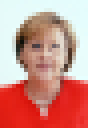
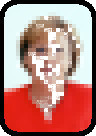
Text scroll and start screen done

diff --git a/main.html b/main.html
@@ -2,31 +2,35 @@
 <html>
 <style>
     /*Use of all images for comercial use covered under Creative Commons*/
-    body {
-        background-color: whitesmoke;
+    
+    * {
+        font-family: "Courier New"
     }
     
-    p {
-        font-family: "Lucida Sans Unicode"
+    body {
+        background-color: whitesmoke;
     }
     
     input {
         height: 40px;
         font-size: 24px;
-        font-family: "Lucida Sans Unicode"
+        border: solid 1px #dcdcdc;
+        padding: 0px;
+        width: 200px;
     }
     
     button {
         width: 120px;
         height: 40px;
         font-size: 24px;
-        font-family: "Lucida Sans Unicode"
+        padding: 0px;
     }
     
     select {
         height: 40px;
         font-size: 24px;
-        font-family: "Lucida Sans Unicode"
+        border: solid 1px #dcdcdc;
+        padding: 0px;
     }
     
     div {
@@ -40,62 +44,128 @@
         position:absolute;
         height:150px;
     }
-
+    
+    #firstChar {
+        float: left; 
+        font-size:24px; 
+        margin-right: 8px;
+        margin-top: 8px;
+    }
+    
     .scrollText { 
         position: absolute; 
-        top: -15px; 
-        left: 150px; 
-        width: 100%;
+        top: -35px; 
+        left: 138px; 
+        width: 85%;
         font-size: 48px;
     }
     
 </style>
+<script src="https://ajax.googleapis.com/ajax/libs/jquery/3.2.0/jquery.min.js"></script>
 <body>
-    <select id="honorific">
+    <h1> Channel 5 News Employment Agreement</h1>
+    <p class="contract" hidden> EMPLOYMENT AGREEMENT dated as of April 12,2017 by and between Modern Medium Communications of Tampa, Inc., a Florida corporation, and <b><span id="employeeName"> [TEXT ERROR] </span></b>.</p>
+    <p class="contract" id="employmentContract" hidden></p>
+    <h2 class="form"> Please print your first and last name. </h2>
+    <select id="honorific" class="form">
         <option value="Mr.">Mr.</option>
         <option value="Mrs.">Mrs.</option>
         <option value="Ms.">Ms.</option>
         <option value="Mx.">Mx.</option>
     </select>
+    <input type="text" id="firstName" class="form" value="John">
+    <input type="text" id="lastName" class="form" value="Smith">
+    <button class="form" onclick="submit()">Submit</button>
     
-    <input type="text" id="firstName" value="First Name">
-    <input type="text" id="lastName" value="Last Name">
-    <button onclick="submit()">Submit</button>
-    
-    <div id="dialogueBox">
-
-        <img id="portrait" src="art/anchor1.jpg" alt="error loading image">
+    <div id="dialogueBox" class="contract" hidden>
+        <img id="portrait" src="art/anchor1.png" alt="error loading image">
         
-        <img id="dialogueBoxImage" src="art/dialogueBox.jpg" alt="error loading image" style="width:304px;height:128px;">
+        <img id="dialogueBoxImage" src="art/dialogueBox.png" alt="error loading image" style="width:304px;height:138px;">
       
         <p class = "scrollText" id="demo"></p>
 
     </div>
     
     <script>
-        document.getElementById("dialogueBoxImage").style.width = window.innerWidth*0.9 + "px";
+        document.getElementById("dialogueBoxImage").style.width = window.innerWidth*0.89 + "px";
+
         var scrollCount;
         var textLoop;
+        var text = ["Congratulations on being hired", "! Director of Programming is a very important position! My name is Linda, I'm the anchor here, I'll be showing you around! Let's get started!"];
+        var maxChar = 64; //maximum number of characters that can fit in the dialogue box
+        var array = [];
+        var currArrayPos;
+        var textDone;
+        var submitted = false;
+        
+        document.onkeypress = function (e) {
+            e = e || window.event;
+            if(e.keyCode == 32)
+                e.preventDefault();
+            if((e.keyCode == 13 || e.keyCode == 32) && textDone) {
+                textDone = false;
+                newScroll(array[currArrayPos]);
+            }
+        };
         
         function submit() {
-            var honorific = document.getElementById("honorific").value;
-            var firstName = document.getElementById("firstName").value;
-            var lastName = document.getElementById("lastName").value;
-            textScroll("Hello " + honorific + " " + firstName + " " + lastName);
+            if (!submitted) {
+                var honorific = document.getElementById("honorific").value;
+                var firstName = document.getElementById("firstName").value;
+                var lastName = document.getElementById("lastName").value;
+                var currText = text[0] + " " + honorific + " " + lastName + text[1];
+                textScroll(currText);
+                document.getElementById("employeeName").innerHTML = firstName + " " + lastName;
+                document.getElementById("employmentContract").innerHTML = employmentContractText;
+                $(".form").hide();
+                $(".contract").show();
+                submitted = true;
+            }
         }
         
+        function clipText (given) {
+            if (given.length > maxChar) {
+                var endPoint;
+                for (var i = maxChar; i > 0; i--) {
+                    if (given.charAt(i) == ' ') {
+                        endPoint = i;
+                        break;
+                    }
+                }
+                
+                array[array.length] = given.substr(0,endPoint);
+                clipText(given.substr(endPoint,given.length));
+            }
+            else {
+                array[array.length] = given;
+            }
+        }
         function textScroll(text) {
+            currArrayPos = 0;
+            clipText(text);
+            newScroll(array[currArrayPos]);
+            textDone = false;
+        }
+        
+        function newScroll (text) {
             scrollCount = 0;
             scroll(text);
-            textLoop = setInterval(function() { scroll(text); }, 50);
+            textLoop = setInterval(function() { scroll(text); }, 40);
         }
         
         function scroll(text) {
             scrollCount++;
             document.getElementById("demo").innerHTML = text.substr(0,scrollCount);
-            if (scrollCount == text.length)
+            if (scrollCount == text.length) {
                 clearInterval(textLoop);
+                currArrayPos += 1;
+                textDone = true;
+            }
         }
+    </script>
+    
+    <script>
+    var employmentContractText = "The Company may terminate this Agreement and all of Employee's rights under this Agreement at any time for any reason. The following are illustrations of \"reason\" but the station is not limited, or bound by these illustrations: (i) misconduct; (ii) insubordination; (iii) failure to perform assigned work in the manner described in Paragraphsl(C)(D)(F) and P) of the Agreement; (iv) using, possessing, selling alcohol or illegal drugs on the Station's property or any other violation of the Company's drug and alcohol abuse policy;(v) dishonesty or deceit that does not serve the Company; (vi) assault or battery; (vii) on-air obscenity or impropriety, oral or visual; (viii) conduct involving moral turpitude; (ix) conduct punishable as a felony under state or federal law; (x) any action involving a breach of the terms of this Agreement; (xi) if, at any time, the Employee fails to conduct himself with dueregard to social conventions and public morals and decency, or if the Employee commits any act or becomes involved in any situation or occurrence which degrades the Employee in society or which brings the Employee into public disrepute, contempt, scandal or ridicule,or shocks, insults or offends the community, or which may reflect unfavorably upon the Employee, the Station, whether or not such information becomes public; (xiii) violation of any Federal Communications Commission rule or regulation; (xiv) incompetence; or (xv) violation of Company absenteeism policy. This Agreement shall be terminated by the death of the Employee as of the date of death. In the event of Employee's death, the Company shall pay to the Employee's legal representatives any accrued but unpaid compensation. All decisions made by the Employee must serve the financial good of the Company and all its affiliate enterpireses, as well as the political goals of the Company and its affiliates whether or not these goals are public knowledge. In the event of Employee's death, the Company shall pay to the Employee's legal representatives any accrued but unpaid compensation. All decisions made by the Employee must serve the financial good of the Company and all its affiliate enterpireses, as well as the political goals of the Company and its affiliates whether or not these goals are public knowledge. In the event of Employee's death, the Company shall pay to the Employee's legal representatives any accrued but unpaid compensation. All decisions made by the Employee must serve the financial good of the Company and all its affiliate enterpireses, as well as the political goals of the Company and its affiliates whether or not these goals are public knowledge. In the event of Employee's death, the Company shall pay to the Employee's legal representatives any accrued but unpaid compensation. All decisions made by the Employee must serve the financial good of the Company and all its affiliate enterpireses, as well as the political goals of the Company and its affiliates whether or not these goals are public knowledge."
     </script>
 </body>
 </html>
